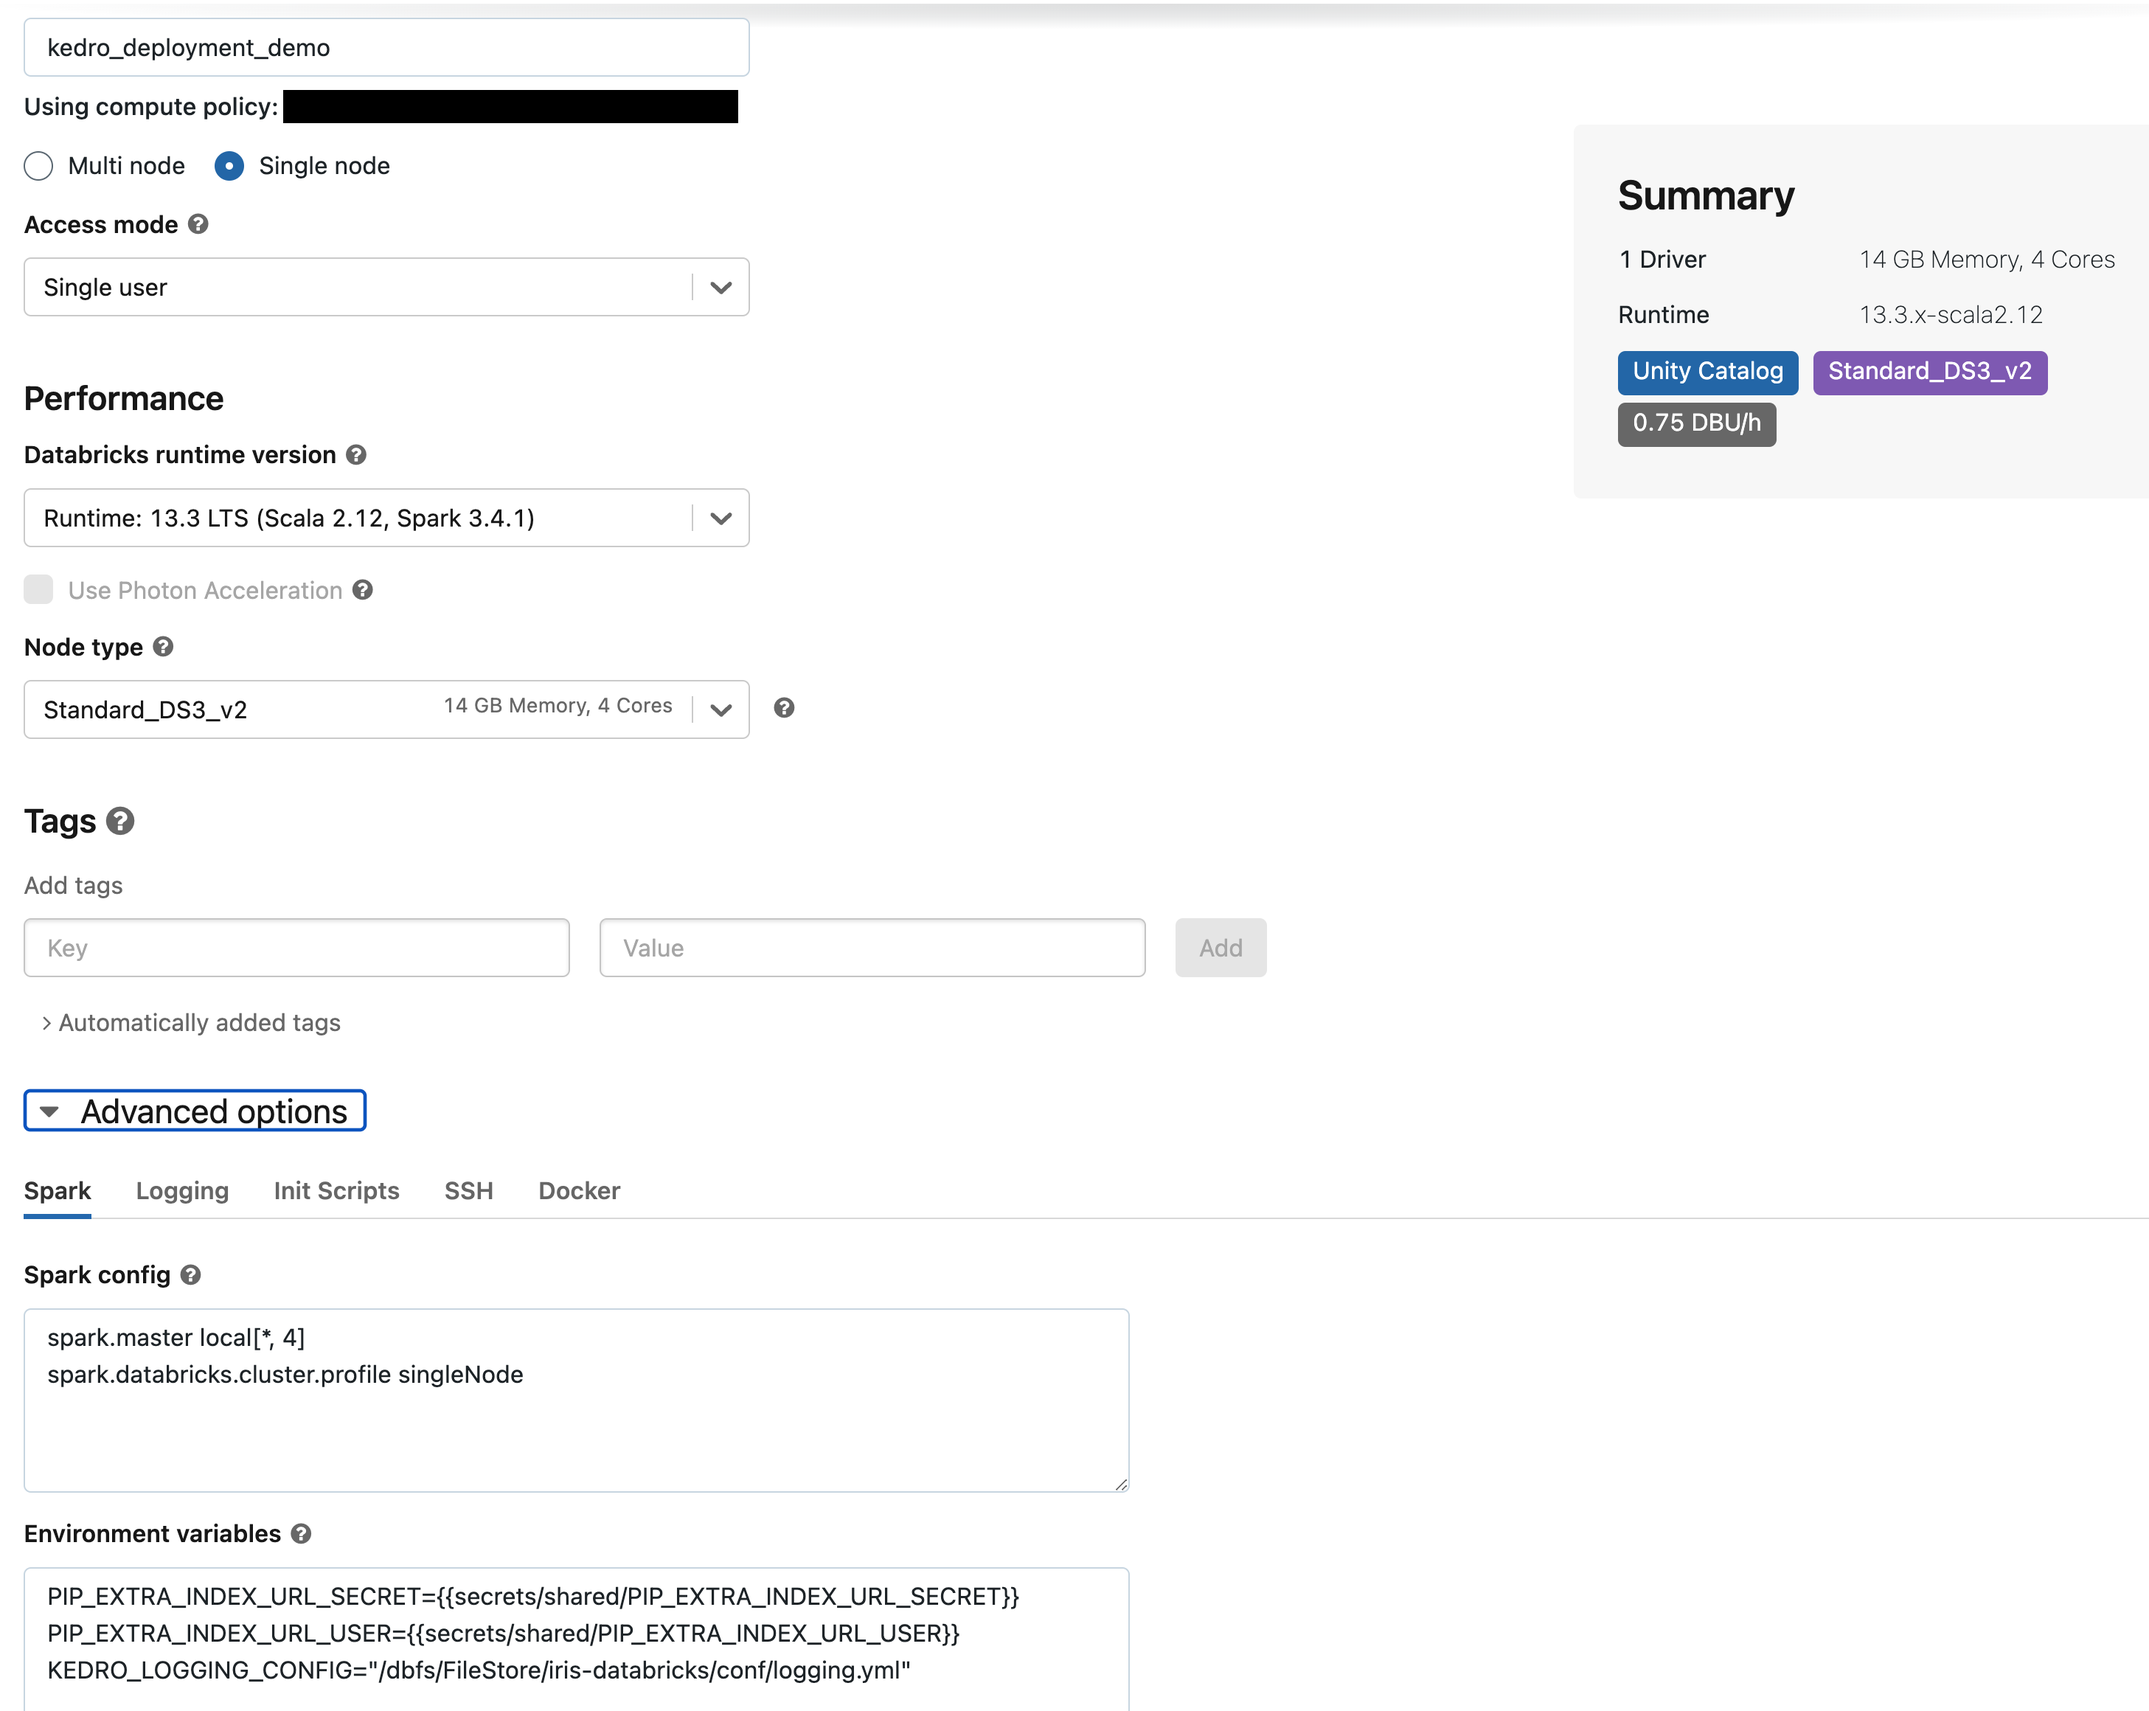
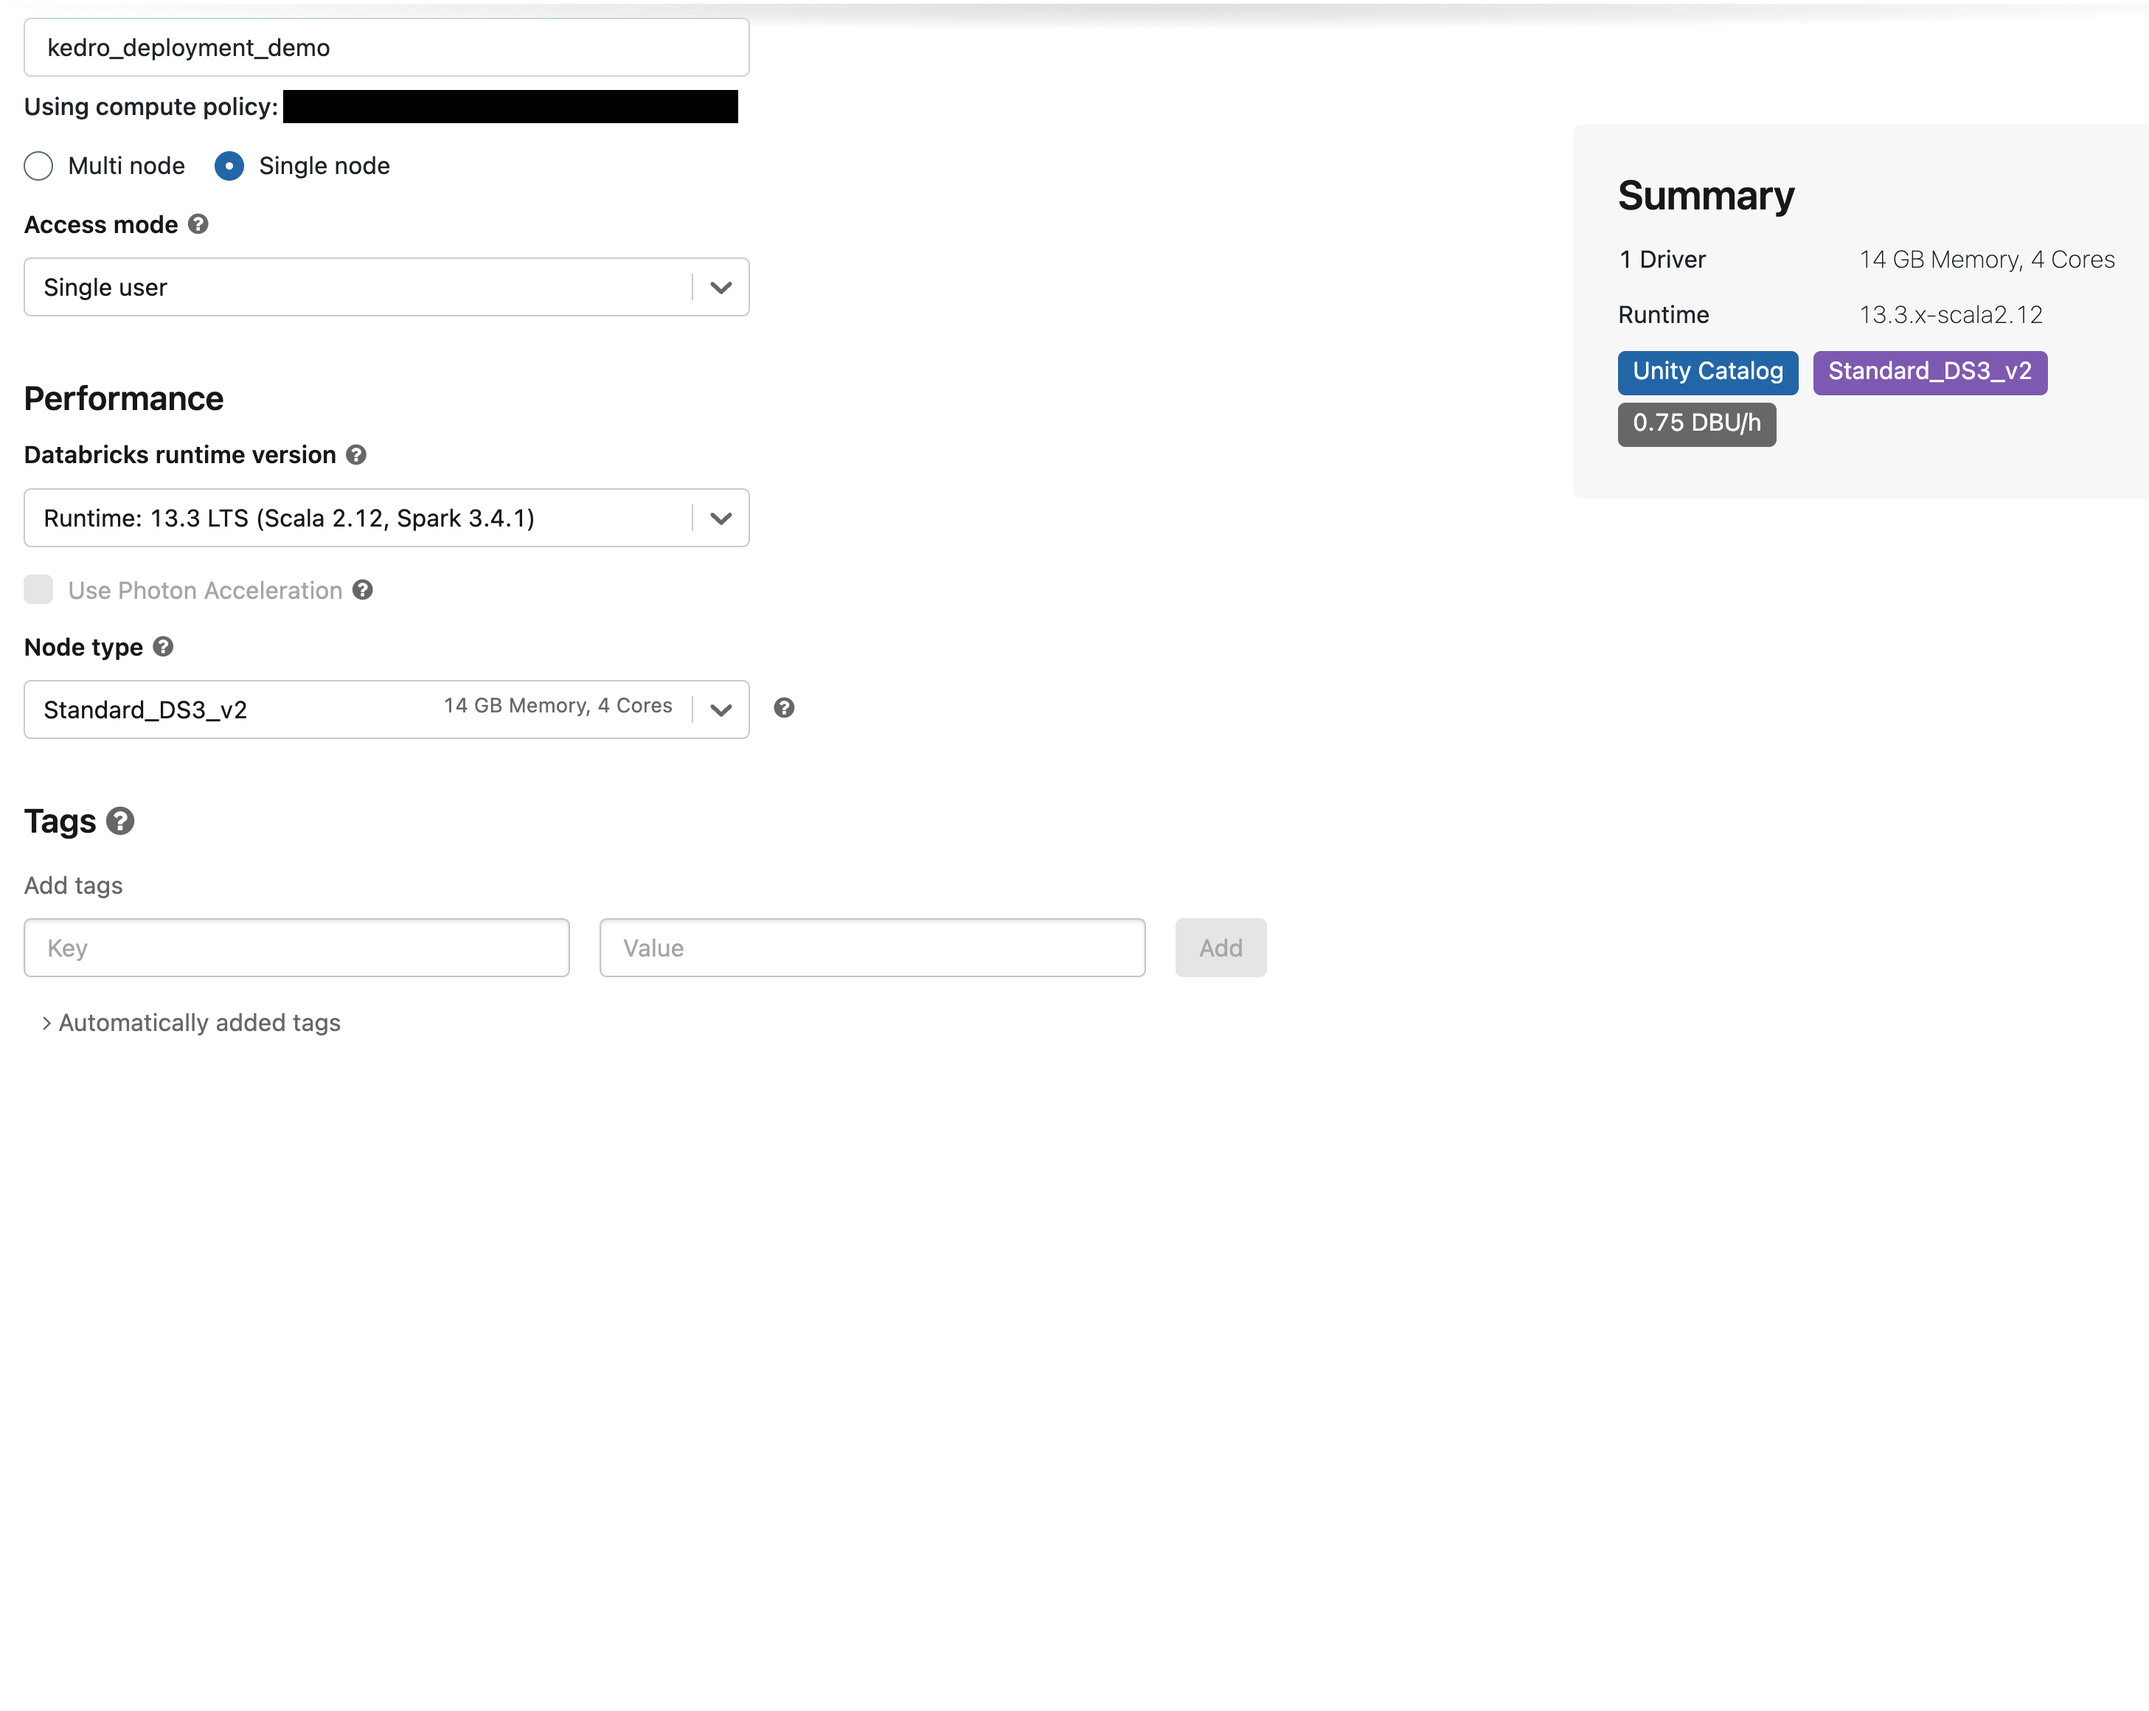
Remove step to set custom logging, this now happens automatically

diff --git a/docs/source/deployment/databricks/databricks_deployment_workflow.md b/docs/source/deployment/databricks/databricks_deployment_workflow.md
@@ -180,9 +180,6 @@ Configure the job cluster with the following settings:
 - In the `name` field enter `kedro_deployment_demo`.
 - Select the radio button for `Single node`.
 - Select the runtime `13.3 LTS` in the `Databricks runtime version` field.
-- In the `Advanced options` section, under the `Spark` tab, locate the `Environment variables` field. Add the following line:
-`KEDRO_LOGGING_CONFIG="/dbfs/FileStore/iris-databricks/conf/logging.yml"`
-Here, ensure you specify the correct path to your custom logging configuration. This step is crucial because the default Kedro logging configuration incorporates the rich library, which is incompatible with Databricks jobs. In the `databricks-iris` Kedro starter, the `rich` handler in `logging.yml` is altered to a `console` handler for compatibility. For additional information about logging configurations, refer to the [Kedro Logging Manual](https://docs.kedro.org/en/stable/logging/index.html).
 - Leave all other settings with their default values in place.
 
 The final configuration for the job cluster should look the same as the following:
